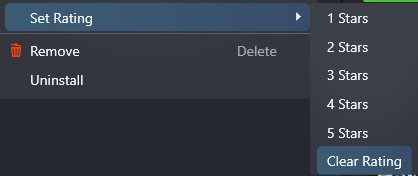
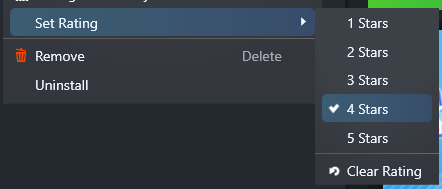
Describe tagging features in project README

diff --git a/README.md b/README.md
@@ -16,6 +16,8 @@ This simple plugin adds some simple options for setting a rating for a game.
 - Star ratings are saved in Playnite as the "User Score" value
 - Supports 0-star ratings
 - Supports clearing an existing User Score value from a game
+- Displays a check (☑) next to an existing rating, if applicable
+- Adds main menu items for applying or clearing rating tags from your entire library
 
 > **NOTE - Displaying User Scores as Stars**  
 > To show your User Score as stars, you will need to use a theme that supports
@@ -40,6 +42,39 @@ Stars | Score
 
 When you select a rating for a game, it is given the corresponding score.
 
+### Ratings
+
+Tags can be applied based on the rating you've applied to a game. This can add
+an additional way for you to filter/sort your library by its game ratings, if
+you wish.
+
+> **REMEMBER - Enable Tagging in StarRatings' Settings to Apply Tags**  
+> To enable tagging support, go to [Main Menu > Add-ons... > Generic > StarRatings]
+
+Once enabled, a tag will be applied to a game upon rating:
+
+![A game tagged as a "4 Stars" game.](.github/tagRating.png)
+
+#### Applying/Clearing Tags en Masse
+
+If you want to apply tags to games that you've already rated or remove all
+tags altogether, check out the Main Menu items.
+
+> **WARNING - Clear Tags Before Changing Your Rating Scheme**  
+> Tags are not currently cleared out when you change your tagging system
+> preferences. **To avoid duplicate tags**, clear your tags before you change
+> your rating scale or adjust the prefix used for your rating tags.
+
+Under _StarRatings_ are two options:
+
+- **Rebuild Rating Tags**
+  - All rated games will be given a tag that corresponds to their rating level.
+- **Clear All Rating Tags**
+  - Removes all tags used by the current rating system.
+  - Warning: As stated above, this is based off of the _current_ rating system.
+
+![Utilities labelled "Rebuild Rating Tags" and "Clear All Rating Tags" are available in the Main Menu under "StarRatings"](.github/mainMenuItems.png)
+
 ### Settings
 
 You can configure the number of stars available and add a few utility options:
@@ -56,6 +91,15 @@ You can configure the number of stars available and add a few utility options:
 - **Enable Star Ratings**
   - If checked, allows you to award half a star at each star level. (e.g. 4.5 out of 5 stars)
   - Default: No
+
+- **Should Apply Rating Tag**
+  - If checked, will apply a tag to the selected game(s) when rated.
+  - This must be enabled to allow for mass (un)tagging.
+  - Default: No
+- **Rating Tag Prefix**
+  - This is used to compose the name of the tag applied.
+    - For example, with the default prefix, a 5 star rating would apply the tag: `Rating: 5 Stars`.
+  - Default: `Rating: ` (note the trailing space)
 
 ![Star Ratings supports the options as described above.](.github/settings.png)
 
